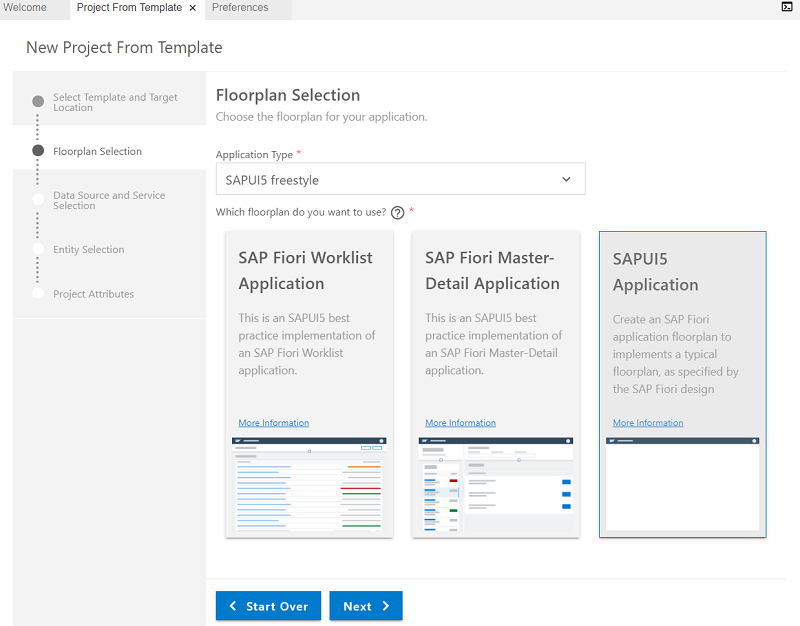
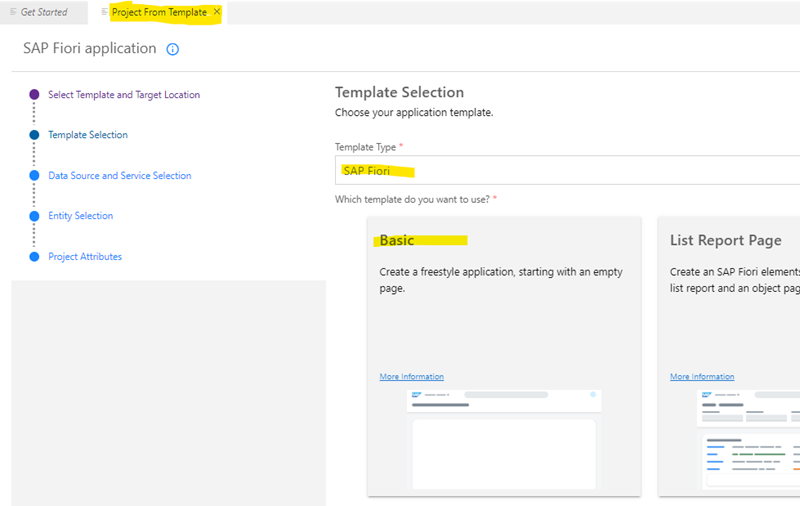
update bas change

diff --git a/docs/pages/3_develop/2_create_app.md b/docs/pages/3_develop/2_create_app.md
@@ -11,9 +11,7 @@
 
    ![](images/ca2_wizard1.png)
 
-3. In the **Floorplan Selection** choose the following: <br>
-   For the field **Application Type** choose **SAPUI5 freestyle** from the drop-down. <br>
-   Select **SAPUI5 Application** as floorplan. <br>
+3. In the **Template Selection** keep template type "Fiori" and choose **Basic** <br>
    Choose **Next**.  <br>
 
    ![](images/ca3_wizard2.png)
